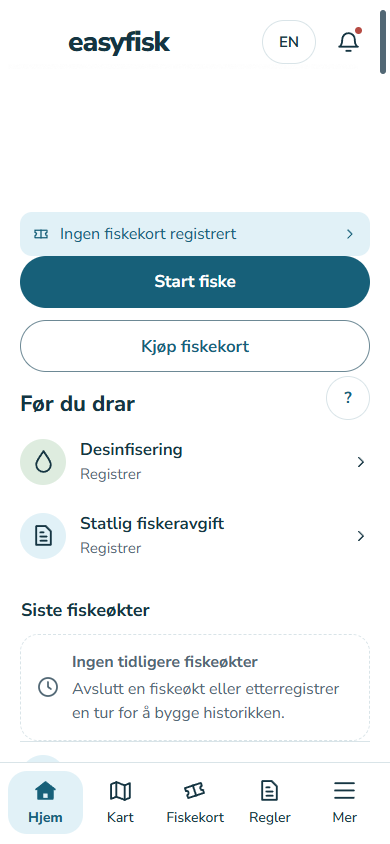
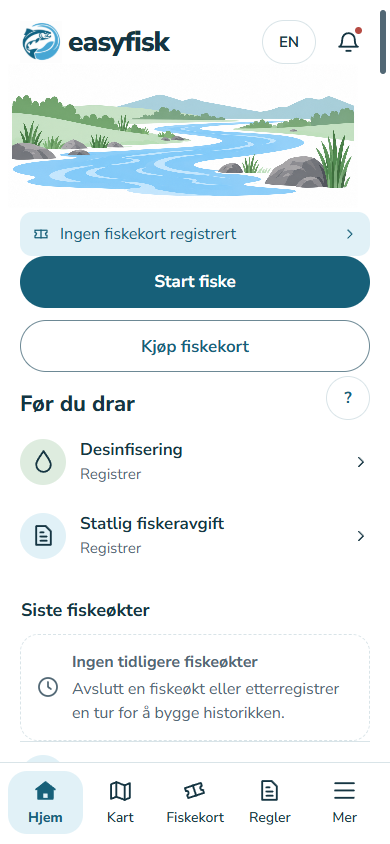
Vis elveillustrasjonen og logoen, og gi overskriften full bredde

Changed region(s): [[0.0308, 0.0, 0.9231, 0.2464]]

diff --git a/app/refleksjonsnotat/reflection.module.css b/app/refleksjonsnotat/reflection.module.css
@@ -1,21 +1,23 @@
 .hero {
   display: grid;
-  grid-template-columns: 1fr 1fr;
-  gap: clamp(2rem, 5vw, 5rem);
-  align-items: center;
+  grid-template-columns: minmax(0, 1fr);
+  gap: clamp(1.5rem, 3vw, 2.5rem);
   padding: clamp(2rem, 5vw, 5rem) max(1.25rem, calc((100% - 70rem) / 2));
   background: var(--sky);
   border-bottom: 1px solid var(--line);
 }
 .hero h1 {
-  font-size: clamp(2.25rem, 4.8vw, 4.75rem);
+  font-size: clamp(1.85rem, 5vw, 4rem);
   line-height: 1.08;
   margin: 1rem 0 1.5rem;
-  overflow-wrap: anywhere;
+  max-width: none;
+  overflow-wrap: normal;
+  word-break: normal;
 }
 .hero img {
   display: block;
   width: 100%;
+  max-width: 48rem;
   height: auto;
   border-radius: 0.75rem;
 }
